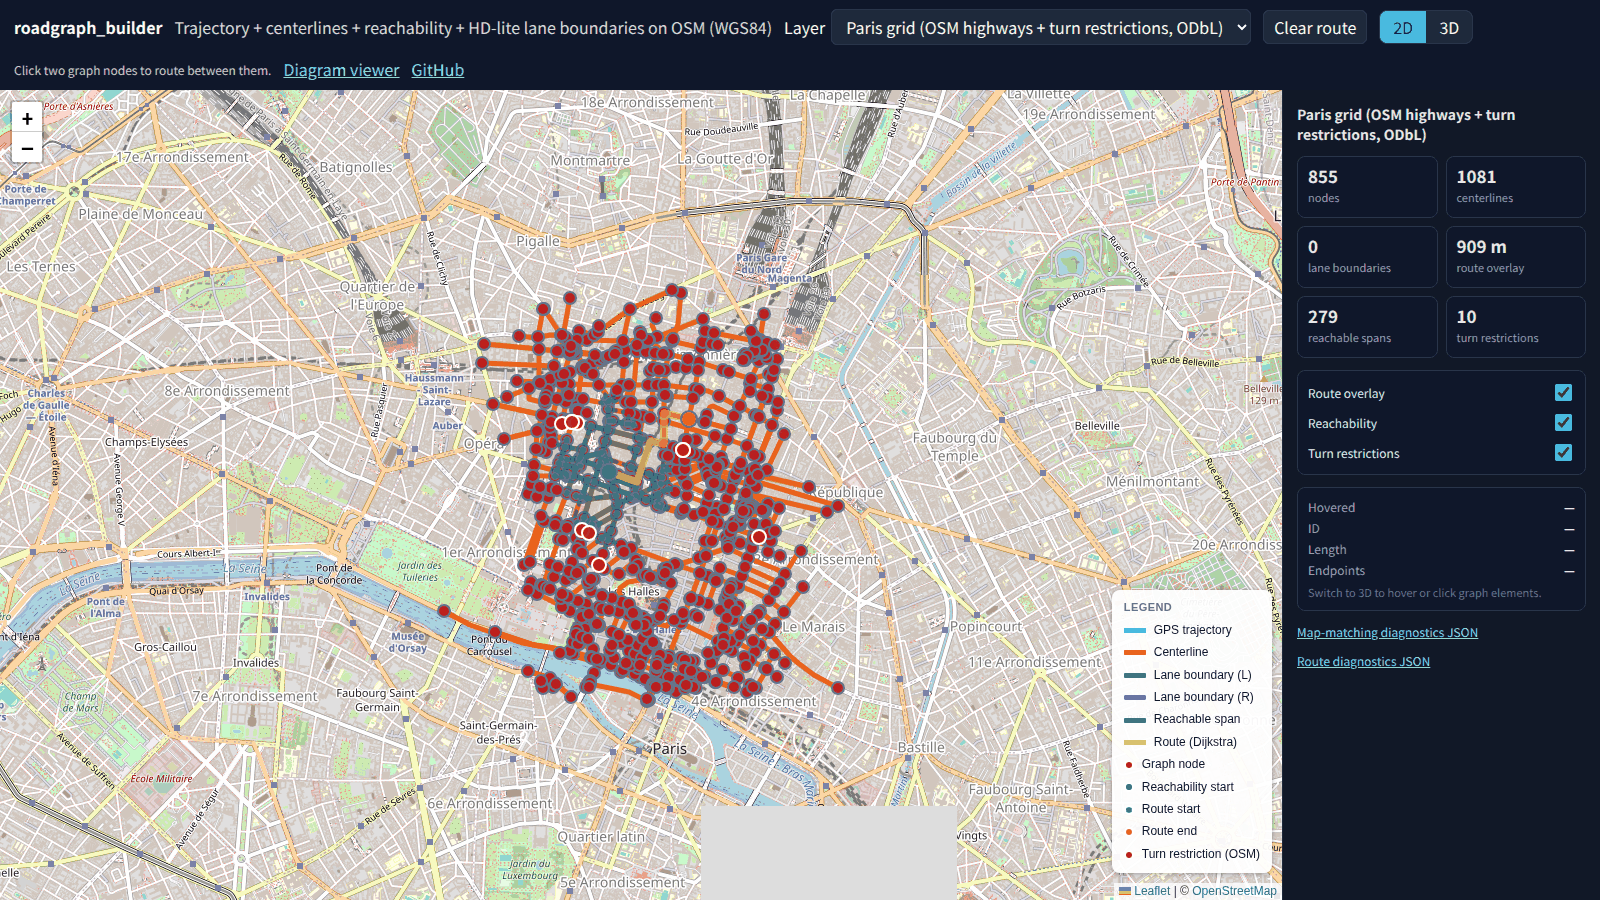
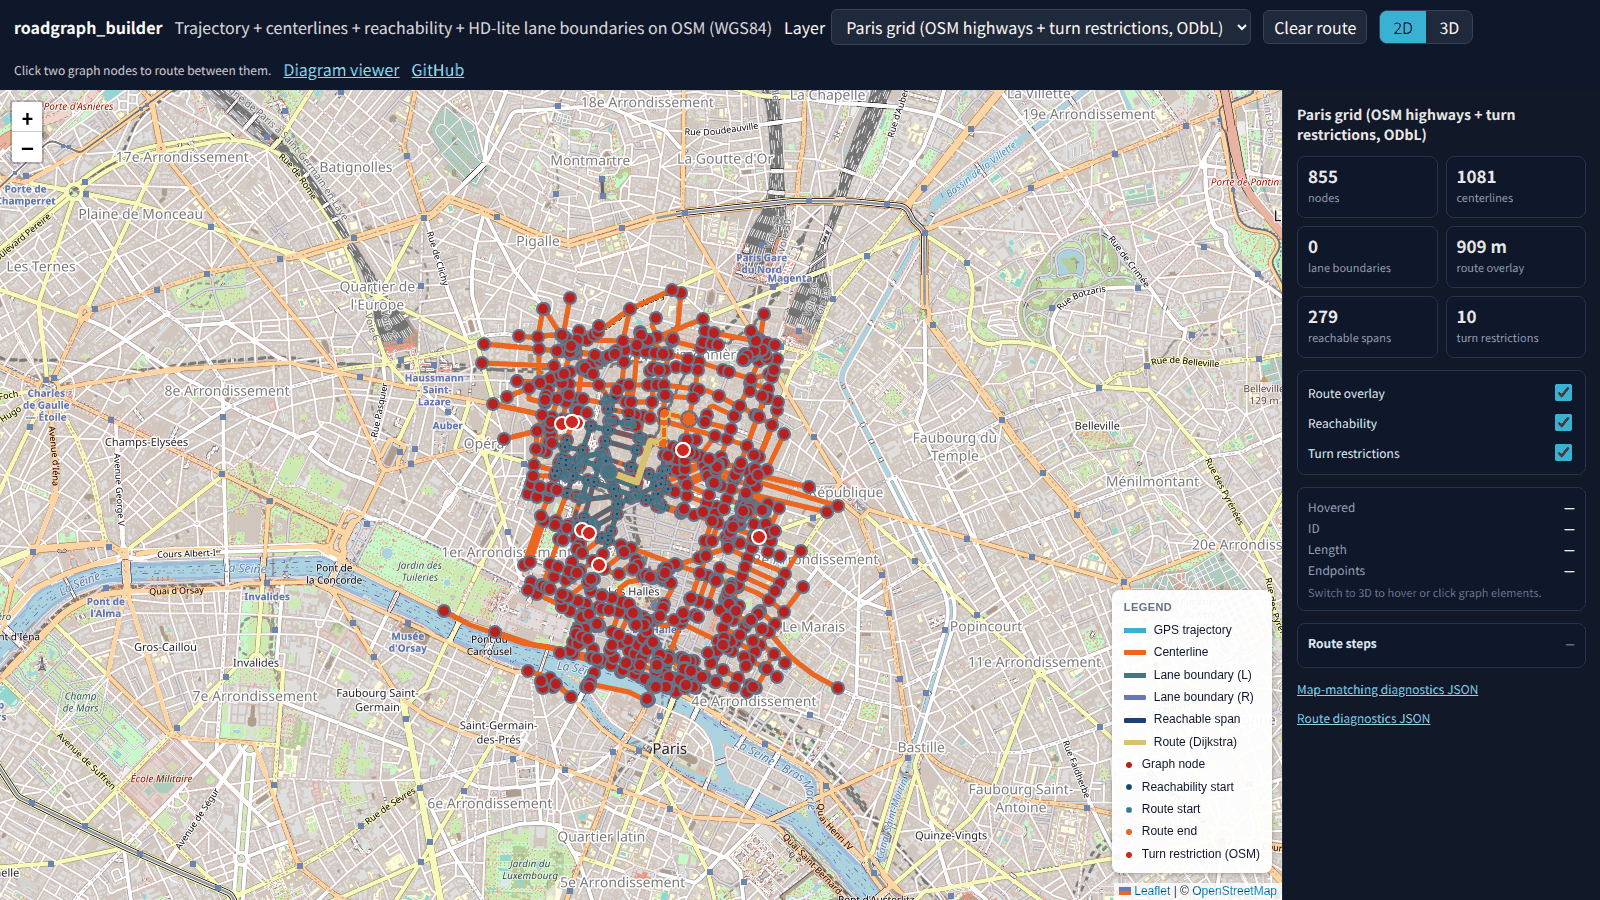
feat(viewer): add deep-link URL params and route steps inspector
The 3D picking work made individual graph elements inspectable but
routes themselves were still opaque from a shareable-URL point of view:
nothing survived a page refresh, nothing could be copy-pasted in a DM,
and the route was only visible as a yellow polyline with total length.

This change closes both gaps.

Deep link. The bootstrap URL now understands ?from=nXXX&to=nYYY on top
of the existing ?dataset and ?view. After show() resolves, the bundled
JS Dijkstra runs against the loaded graph and turn_restrictions, and
the result flows through the existing drawDynamicRoute() path, so the
Leaflet overlay, 3D scene payload, and inspector route length all fill
in without the user clicking. applyDeepLinkRoute() skips gracefully
with a status-line message when either node is unknown or no path
exists. drawDynamicRoute() and clearRoute() mirror the current endpoint
pair into the URL via history.replaceState() so the address bar always
reflects the visible route; copy-pasting or sharing the URL now
restores the same view.

Route steps. The inspector grew a #steps-card listing every routed edge
(edge id, direction, per-edge length, cumulative length) plus a header
with edge count and total length. renderRouteSteps() populates it from
dij.edges / dij.directions after each successful route; clearRoute()
hides it and clearRouteSteps() is called on dataset switch as well. The
card is styled to match the hover-card and existing stat cards, caps
[…]

diff --git a/docs/js/map_console.js b/docs/js/map_console.js
@@ -1098,7 +1098,70 @@ function drawDynamicRoute(graph, dij) {
   updateInspector(document.getElementById("dataset").value, {
     routeLength: dij.totalLength,
   });
+  renderRouteSteps(graph, dij);
+  syncRouteDeepLink(dij);
   if (activeView === "3d") render3DScene();
+}
+
+function renderRouteSteps(graph, dij) {
+  const card = document.getElementById("steps-card");
+  const list = document.getElementById("steps-list");
+  const count = document.getElementById("steps-count");
+  if (!card || !list || !count) return;
+  list.innerHTML = "";
+  let cum = 0;
+  for (let i = 0; i < dij.edges.length; i++) {
+    const eid = dij.edges[i];
+    const dir = dij.directions[i] || "forward";
+    const edge = graph.edges.get(eid);
+    const len = edge ? Number(edge.length) || 0 : 0;
+    cum += len;
+    const li = document.createElement("li");
+    const addSpan = (cls, text) => {
+      const s = document.createElement("span");
+      s.className = cls;
+      s.textContent = text;
+      li.appendChild(s);
+    };
+    addSpan("step-id", eid);
+    addSpan("step-dir", " · " + dir);
+    addSpan("step-len", " · " + len.toFixed(1) + " m");
+    addSpan("step-cum", " (" + cum.toFixed(1) + " m)");
+    list.appendChild(li);
+  }
+  count.textContent =
+    dij.edges.length + " edges · " + dij.totalLength.toFixed(1) + " m";
+  card.hidden = false;
+}
+
+function clearRouteSteps() {
+  const card = document.getElementById("steps-card");
+  const list = document.getElementById("steps-list");
+  const count = document.getElementById("steps-count");
+  if (!card) return;
+  if (list) list.innerHTML = "";
+  if (count) count.textContent = "—";
+  card.hidden = true;
+}
+
+// Mirror the current route endpoints into the URL so the page can be
+// copy-pasted and restored elsewhere. Uses history.replaceState so there is
+// no new browsing history entry per click.
+function syncRouteDeepLink(dij) {
+  if (!window.history || !window.history.replaceState) return;
+  try {
+    const url = new URL(window.location.href);
+    if (dij && dij.nodes && dij.nodes.length >= 2) {
+      url.searchParams.set("from", dij.nodes[0]);
+      url.searchParams.set("to", dij.nodes[dij.nodes.length - 1]);
+    } else {
+      url.searchParams.delete("from");
+      url.searchParams.delete("to");
+    }
+    window.history.replaceState(null, "", url.toString());
+  } catch (_err) {
+    // best-effort; deep-link sync must never break routing.
+  }
 }
 
 function onNodeClick(nodeId) {
@@ -1151,6 +1214,8 @@ function clearRoute() {
   routeOverlayLayer.clearLayers();
   scenePayload.route = null;
   updateInspector(document.getElementById("dataset").value, { routeLength: NaN });
+  clearRouteSteps();
+  syncRouteDeepLink(null);
   if (activeView === "3d") render3DScene();
   currentRouteSelection = { from: null, to: null };
   statusText("Click two graph nodes to route between them.");
@@ -1293,6 +1358,8 @@ async function bootstrap() {
   const requested = params.get("dataset");
   const initialDataset = allowed.has(requested) ? requested : "paris_grid";
   const initialView = params.get("view") === "3d" ? "3d" : "2d";
+  const fromParam = params.get("from");
+  const toParam = params.get("to");
   const datasetSel = document.getElementById("dataset");
   if (datasetSel.value !== initialDataset) datasetSel.value = initialDataset;
   await show(initialDataset);
@@ -1300,7 +1367,40 @@ async function bootstrap() {
     setView("3d");
     await render3DScene();
   }
+  if (fromParam && toParam && fromParam !== toParam) {
+    applyDeepLinkRoute(initialDataset, fromParam, toParam);
+  }
   document.body.dataset.ready = initialView;
+}
+
+function applyDeepLinkRoute(which, fromId, toId) {
+  const graph = graphCache[which];
+  if (!graph) return;
+  if (!graph.adj.has(fromId) || !graph.adj.has(toId)) {
+    statusText("deep link skipped: unknown node " + (graph.adj.has(fromId) ? toId : fromId));
+    return;
+  }
+  const dij = dijkstra(graph, fromId, toId, graph.restrictions);
+  if (!dij) {
+    statusText("deep link skipped: no path " + fromId + " → " + toId);
+    return;
+  }
+  drawDynamicRoute(graph, dij);
+  const trCount = graph.restrictions
+    ? graph.restrictions.noT.size + graph.restrictions.onlyT.size
+    : 0;
+  statusText(
+    "deep link " +
+      fromId +
+      " → " +
+      toId +
+      ": " +
+      dij.totalLength.toFixed(1) +
+      " m · " +
+      dij.edges.length +
+      " edges" +
+      (trCount ? " · " + trCount + " TR honoured" : "")
+  );
 }
 
 bootstrap().catch((err) => {

diff --git a/docs/map.html b/docs/map.html
@@ -157,6 +157,56 @@
         font-size: 11px;
         margin-top: 2px;
       }
+      .steps-card {
+        display: grid;
+        gap: 6px;
+        padding: 10px;
+        border: 1px solid #273449;
+        border-radius: 8px;
+        background: #0f172a;
+        font-size: 12px;
+        color: #e5e7eb;
+        max-height: 220px;
+        overflow: auto;
+      }
+      .steps-head {
+        display: flex;
+        justify-content: space-between;
+        align-items: baseline;
+        gap: 10px;
+        color: #dbeafe;
+      }
+      .steps-head strong {
+        font-size: 12px;
+      }
+      .steps-head span {
+        color: #94a3b8;
+        font-size: 11px;
+      }
+      .steps-list {
+        margin: 0;
+        padding-left: 18px;
+        display: grid;
+        gap: 3px;
+      }
+      .steps-list li {
+        line-height: 1.35;
+        word-break: break-all;
+      }
+      .steps-list .step-id {
+        color: #facc15;
+        font-weight: 600;
+      }
+      .steps-list .step-dir {
+        color: #94a3b8;
+      }
+      .steps-list .step-len {
+        color: #e5e7eb;
+      }
+      .steps-list .step-cum {
+        color: #64748b;
+        font-size: 11px;
+      }
       .bar {
         position: relative;
         z-index: 10;
@@ -343,6 +393,13 @@
           <div class="hover-row"><span>Length</span><strong id="hover-length">—</strong></div>
           <div class="hover-row"><span>Endpoints</span><strong id="hover-endpoints">—</strong></div>
           <div class="hover-hint" id="hover-hint">Hover an edge or node in the 3D view; click a node to set route endpoints.</div>
+        </div>
+        <div class="steps-card" id="steps-card" hidden aria-label="Route steps">
+          <div class="steps-head">
+            <strong>Route steps</strong>
+            <span id="steps-count">—</span>
+          </div>
+          <ol class="steps-list" id="steps-list"></ol>
         </div>
         <a class="panel-link" href="assets/map_match_explain_sample.json">Map-matching diagnostics JSON</a>
         <a class="panel-link" href="assets/route_explain_sample.json">Route diagnostics JSON</a>

diff --git a/docs/PLAN.md b/docs/PLAN.md
@@ -6,7 +6,7 @@
 > このファイル → [`docs/ARCHITECTURE.md`](./ARCHITECTURE.md)（Mermaid 6 枚 + CLI 対応表 +
 > モジュール索引）→ [`CHANGELOG.md`](../CHANGELOG.md) の順。
 
-*最終更新: 2026-04-24 session（V1 実測 / camera warning fix / perf flake fix / docs sync / completions sync / Paris accuracy refresh / Berlin tuning sweep / README+docs visual preview + measured-results cards polish + README measured-results compacting / float32 opt-in + drift report + compare script + 1M synthetic memory profile + OSM public-trace replay profile / release bundle byte + normalized-manifest gate + manifest policy docs polish / private repo Pages blocked note / CLI boundary split wave 完了 / README release surface 整理 / v0.7.1 release + asset verification / packaging metadata smoke / 0.7.2.dev0 reopen / Actions Node24 update / release+PyPI dry-run / routing hot-path perf / nearest spatial index / cache invalidation hardening / build graph spatial merge perf / T-junction segment index perf / lean near-parallel merge loop / GeoJSON export compact path / compact bundle JSON writer / README quick-start smoke / release readiness dry-run refresh / reachable service-area CLI / reachable docs overlay / reachable benchmark coverage / benchmark baseline JSON / reachability analyzer perf / routing core split / RoutePlanner perf / GitHub star-growth surfaces / launch kit docs / safe A* routing / route explain diagnostics / route explain docs surface / route explain comparison UI / route diagnostics README screenshot / functional shortest_path planner cache + sampled validation / nearest-edge projection index / match-trajectory explain diagnostics / HMM bridge ambiguity benchmark / HMM adjacency reuse perf / HMM tail-cost cache / HMM long trajectory benchmark / edge-index cell tuning / 2D/3D map console / PLAN handoff expansion / map console pushed + CI green / Claude handoff refresh / map console hero screenshots / map console browser smoke opt-in pytest / map console JS split + 3D raycaster picking）を反映済み。*
+*最終更新: 2026-04-24 session（V1 実測 / camera warning fix / perf flake fix / docs sync / completions sync / Paris accuracy refresh / Berlin tuning sweep / README+docs visual preview + measured-results cards polish + README measured-results compacting / float32 opt-in + drift report + compare script + 1M synthetic memory profile + OSM public-trace replay profile / release bundle byte + normalized-manifest gate + manifest policy docs polish / private repo Pages blocked note / CLI boundary split wave 完了 / README release surface 整理 / v0.7.1 release + asset verification / packaging metadata smoke / 0.7.2.dev0 reopen / Actions Node24 update / release+PyPI dry-run / routing hot-path perf / nearest spatial index / cache invalidation hardening / build graph spatial merge perf / T-junction segment index perf / lean near-parallel merge loop / GeoJSON export compact path / compact bundle JSON writer / README quick-start smoke / release readiness dry-run refresh / reachable service-area CLI / reachable docs overlay / reachable benchmark coverage / benchmark baseline JSON / reachability analyzer perf / routing core split / RoutePlanner perf / GitHub star-growth surfaces / launch kit docs / safe A* routing / route explain diagnostics / route explain docs surface / route explain comparison UI / route diagnostics README screenshot / functional shortest_path planner cache + sampled validation / nearest-edge projection index / match-trajectory explain diagnostics / HMM bridge ambiguity benchmark / HMM adjacency reuse perf / HMM tail-cost cache / HMM long trajectory benchmark / edge-index cell tuning / 2D/3D map console / PLAN handoff expansion / map console pushed + CI green / Claude handoff refresh / map console hero screenshots / map console browser smoke opt-in pytest / map console JS split + 3D raycaster picking / map console deep link + route steps inspector）を反映済み。*
 
 ---
 
@@ -332,6 +332,15 @@
       `handleScenePick` → node 当たれば既存 `onNodeClick(nodeId)` で 2D/3D 両方に route を反映。
       inspector 右側に `#hover-card` (Hovered / ID / Length / Endpoints / hint) を追加。
       browser smoke spec に 3D hover + click ケースを追加し、5 連続 run で flake 無し（7–9s）。
+  75. map console deep link + route steps inspector。
+      `docs/map.html?from=nXXX&to=nYYY` で bootstrap 時に既存 graph + restrictions から
+      `dijkstra()` を再計算して `drawDynamicRoute` に流す deep link を追加。`drawDynamicRoute` /
+      `clearRoute` は `history.replaceState()` で URL の `from` / `to` を同期するので、
+      任意の route を URL コピペで共有できる。inspector 右側に `#steps-card`（edge_id / direction /
+      length / cumulative_m + edge 数 + 総距離）を追加し、`renderRouteSteps(graph, dij)` /
+      `clearRouteSteps()` で populate / hide。browser smoke に Paris `n312 → n191` deep link ケース
+      を追加し、`#steps-card` 非 hidden + `li` が 3 本以上 + status に `deep link n312` + URL 末尾に
+      `from=n312&to=n191` が残ることまで assert。
 - **push 方針:** `git push` は user が `push!` などで明示するまで実行しない。
 - **未着手 (次の AI が触る候補):** ↓ §5 "Open tasks" 参照。
 
@@ -612,6 +621,12 @@
   扱いで `handleScenePick()` を呼び、node なら既存 `onNodeClick(nodeId)` にチェーンして 2D と 3D の route
   overlay / inspector を同期。setView / show / render3DScene リビルド時に `setHoverCard(null)` +
   `lastHoverKey = null` で古い hover 状態をリセット。
+- **Deep link + route steps:** `docs/map.html?from=nXXX&to=nYYY[&dataset=...][&view=3d]` で bootstrap 時に
+  `dijkstra()` を直接再計算して `drawDynamicRoute` に流す。`drawDynamicRoute` / `clearRoute` は
+  `history.replaceState()` で URL の `from` / `to` を同期、任意の route を URL コピペで共有できる。
+  inspector 右側の `#steps-card` には `renderRouteSteps(graph, dij)` が edge_id / direction /
+  length / cumulative_m + 合計 edges / m を埋めるので、routing 結果を 3D 視覚と JSON 以外の第三の形で
+  読み取れる。`clearRouteSteps()` は `Clear route` または dataset 切替で自動実行。
 - **dynamic route sync:** `drawDynamicRoute(graph, dij)` は Leaflet polyline だけでなく
   `scenePayload.route` の GeoJSON FeatureCollection も作る。これにより node click routing 後に
   3D view へ切り替えても同じ route が表示され、inspector の route metric も `dij.totalLength` で更新される。
@@ -787,9 +802,11 @@ code commit `342f61f` の release bundle / package build dry-run は PASS
    centerline edge / graph node の hover + click picking を実装。inspector 右側の `#hover-card` に
    kind / id / length / endpoints を表示、auto-rotate はポインタが pickable に乗ると pause、
    pointerup (drag 無し) は既存 `onNodeClick(nodeId)` を呼ぶので 2D/3D 両方に route が同期する。
-   まだ未実装: route step highlight（経路上の edge を順番に強調）、edge cost coloring（observed /
-   slope / confidence などを 3D 上で色分け）、camera pose の保存 / deep link、lane-level 表示、
-   同じ raycaster を 2D 側の Leaflet layer にも拡張する仕組み。
+   deep link `?from=nXXX&to=nYYY` + `history.replaceState` による URL 同期、`#steps-card` に
+   route edge list (edge_id / direction / length / cumulative) を表示する機能も追加済み。
+   まだ未実装: route step highlight（経路上の edge を順番に強調 / 動画化）、edge cost coloring
+   （observed / slope / confidence などを 3D 上で色分け）、camera pose の保存 / pose deep link、
+   lane-level 表示、同じ raycaster を 2D Leaflet layer に拡張する仕組み。
 4. **Viewer asset vendoring / offline stability** — public launch 前の安定化候補。
    Leaflet / Three.js / OSM tiles は現状 network 依存。private local demo では許容だが、
    release-quality demo としては vendored Leaflet/Three、または static screenshot fallback を検討。

diff --git a/README.md b/README.md
@@ -66,7 +66,7 @@ The docs map ships a Paris OSM-highway graph with 10 mapped turn restrictions, a
 
 [![Paris OSM-highway grid with a TR-aware route and 500 m reachability overlay](docs/images/paris_grid_route.svg)](docs/map.html)
 
-Open the interactive version locally: `cd docs && python3 -m http.server 8765`, then visit **`http://127.0.0.1:8765/map.html`** (add `?view=3d` for the 3D graph preview, `?dataset=paris` to switch to the public-GPS sample).
+Open the interactive version locally: `cd docs && python3 -m http.server 8765`, then visit **`http://127.0.0.1:8765/map.html`** (add `?view=3d` for the 3D graph preview, `?dataset=paris` to switch to the public-GPS sample, `?from=n312&to=n191` to restore the Paris turn-restriction-aware route — the inspector's **Route steps** card lists each edge, direction, and cumulative length).
 
 ### Quick start
 
@@ -242,7 +242,7 @@ When Pages is available (public repo, Pages-capable private repo plan, or a sepa
 1. In the GitHub repo: **Settings → Pages → Build and deployment → Source**: **Deploy from a branch**, branch **`main`**, folder **`/docs`**, Save.
 2. After a minute, open the Pages URL shown by GitHub:
    - site root — diagram viewer (SVG-style pan/zoom)
-   - `map.html` — **real basemap + 3D graph console** (OSM tiles + GeoJSON: trajectory, centerlines, nodes, **HD-lite lane boundaries** when `attributes.hd` is filled — bundled assets use `enrich --lane-width-m 3.5` via `scripts/refresh_docs_assets.py`). Toggle between 2D Leaflet and a Three.js graph preview, inspect node/edge/lane/route/reachability/restriction counts, and switch route / reachability / restriction overlays without reloading. Click any two nodes to route between them; the JS Dijkstra is **directed-state and TR-aware** when the dataset ships a restrictions overlay, and dynamic routes update the 3D view too. The dropdown selects between four datasets:
+   - `map.html` — **real basemap + 3D graph console** (OSM tiles + GeoJSON: trajectory, centerlines, nodes, **HD-lite lane boundaries** when `attributes.hd` is filled — bundled assets use `enrich --lane-width-m 3.5` via `scripts/refresh_docs_assets.py`). Toggle between 2D Leaflet and a Three.js graph preview, inspect node/edge/lane/route/reachability/restriction counts, and switch route / reachability / restriction overlays without reloading. Click any two nodes to route between them; the JS Dijkstra is **directed-state and TR-aware** when the dataset ships a restrictions overlay, and dynamic routes update the 3D view and the **Route steps** inspector card (per-edge id, direction, length, cumulative) in lockstep. In 3D, hovering pauses auto-rotate and a `THREE.Raycaster` fills the **Hovered** card (kind, id, length, endpoints); clicking a node drives the same click-to-route as the 2D map. URL parameters are honoured and mirrored: `?view=3d`, `?dataset=…`, and `?from=nXXX&to=nYYY` all restore state, and drawing a route rewrites `from` / `to` via `history.replaceState` so the current route is copy-pasteable. The dropdown selects between four datasets:
      - **Paris grid** (default, 855 nodes / 1081 edges — derived from OSM highway ways, ships with 10 OSM turn restrictions as red-dot markers and a 500 m `reachable` overlay. ODbL.)
      - **Paris** (older, trajectory-derived, 123 edges / 223 nodes; from OSM public GPS, ODbL.)
      - **OSM Berlin sample** (4 edges, smaller).

diff --git a/CHANGELOG.md b/CHANGELOG.md
@@ -70,6 +70,18 @@ and this project adheres to [Semantic Versioning](https://semver.org/spec/v2.0.0
   / route metric in lockstep. The opt-in browser smoke gained a 3D hover +
   click assertion covering the new path.
 
+- **Map console deep-links via `?from=&to=` plus a route steps inspector.**
+  `docs/map.html?from=nXXX&to=nYYY[&dataset=...&view=3d]` now restores a
+  turn-restriction-aware route at bootstrap by running the same JS Dijkstra
+  the click-to-route UI uses. Drawing or clearing a dynamic route mirrors the
+  selection into the URL via `history.replaceState()`, so any Paris-grid
+  route (or future dataset route) is copy-pasteable. The inspector gained a
+  `#steps-card` that lists each route edge with direction, per-edge length,
+  cumulative distance, edge count, and total length; the card appears after
+  a route is drawn and clears with `Clear route` or dataset switch. The
+  browser smoke covers the `n312 → n191` deep link, asserting the card is
+  visible, multiple steps render, and the URL retains `from` / `to`.
+
 - **Reachability / service-area analysis is available from the routing CLI.**
   New `routing.reachability.reachable_within` and `roadgraph_builder reachable`
   report nodes and directed edge spans reachable from a start node within a
